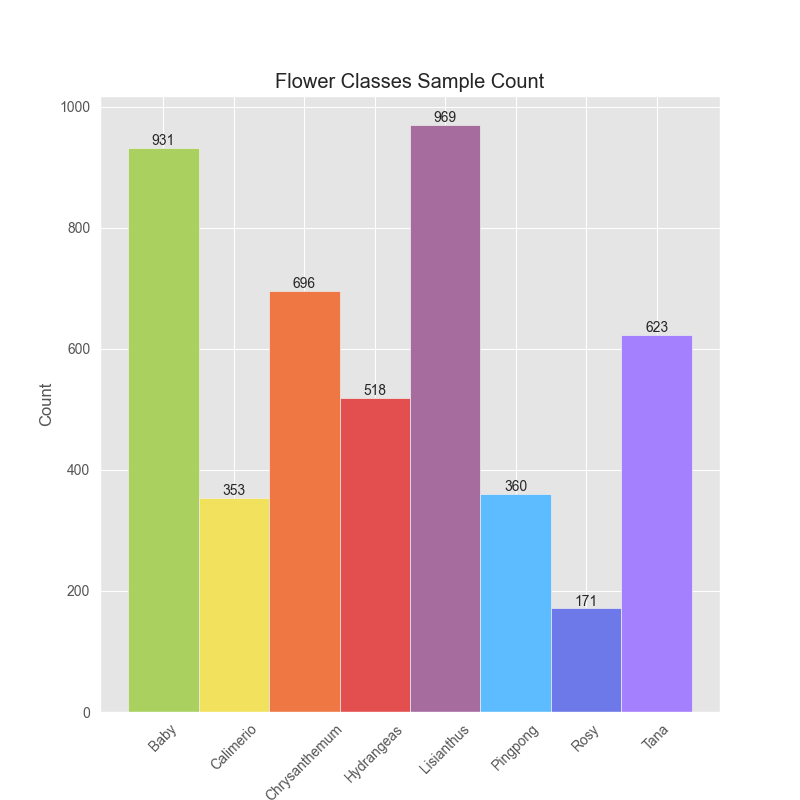
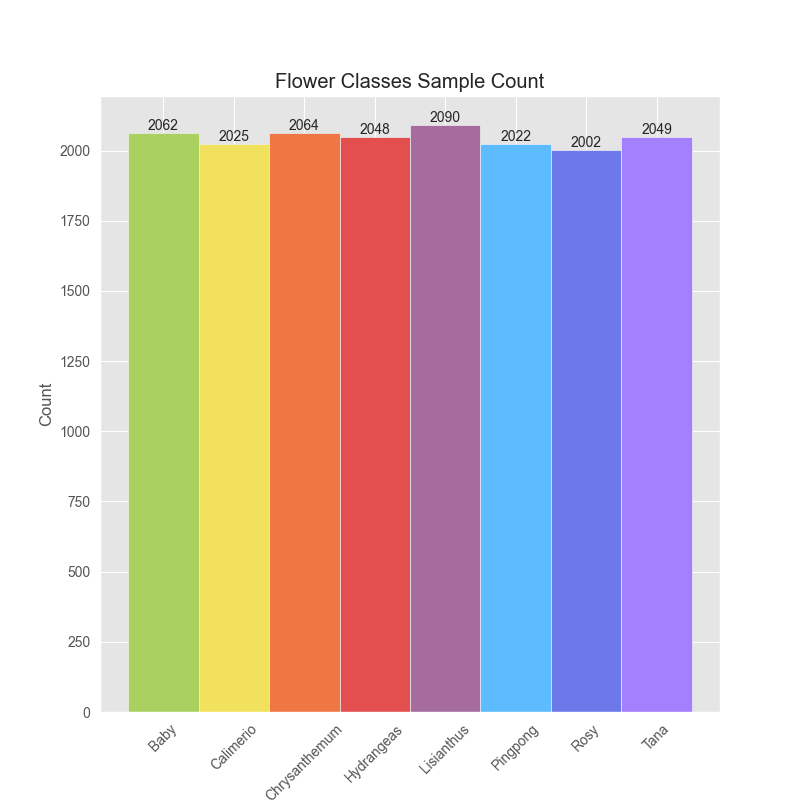
Update to balanced dataset

diff --git a/README.md b/README.md
@@ -26,7 +26,7 @@ The dataset for this project is available on [Kaggle](https://kaggle.com/dataset
 
 1. Navigate to project's root directory.
 
-2. Clean all existing files in the `./data/` folder before downloading or updating this dataset:
+2. Clean all existing files in the `./data/` folder (if it exists) before downloading or updating this dataset:
 
     ```bash
     rm -r ./data/*
